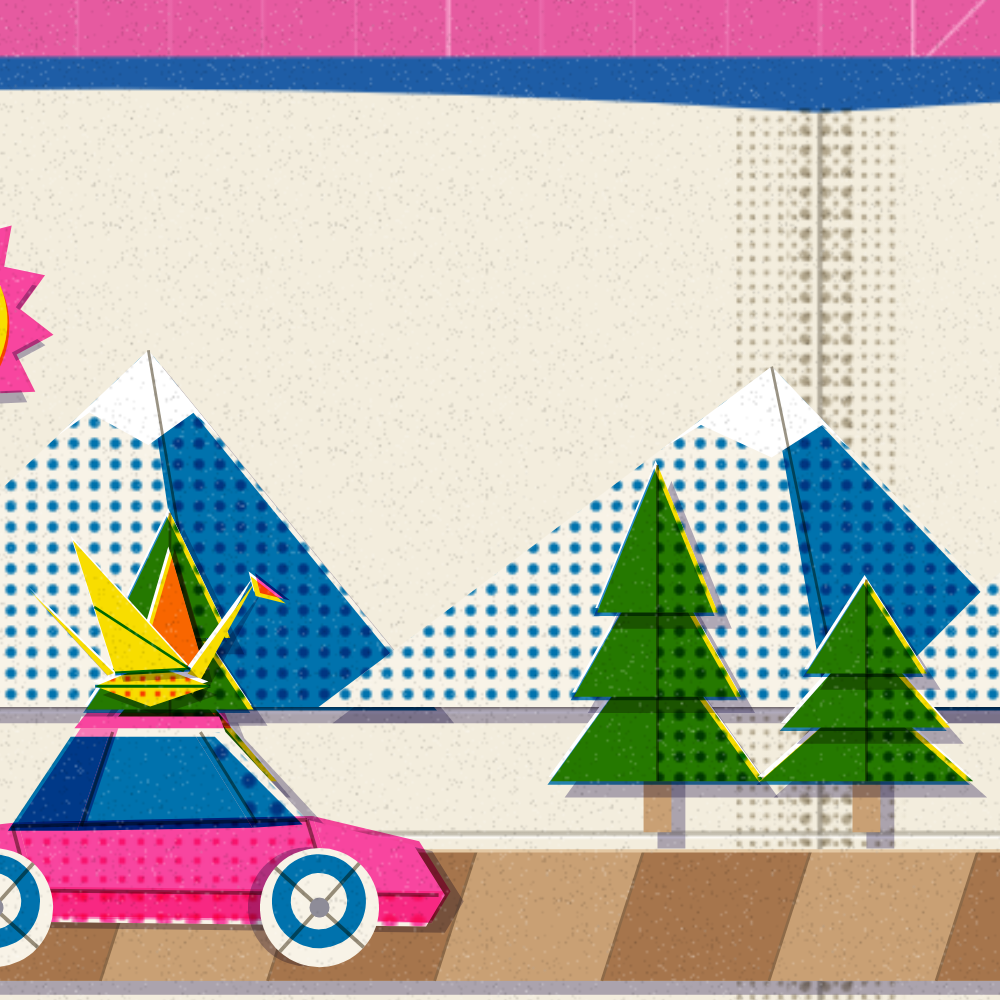
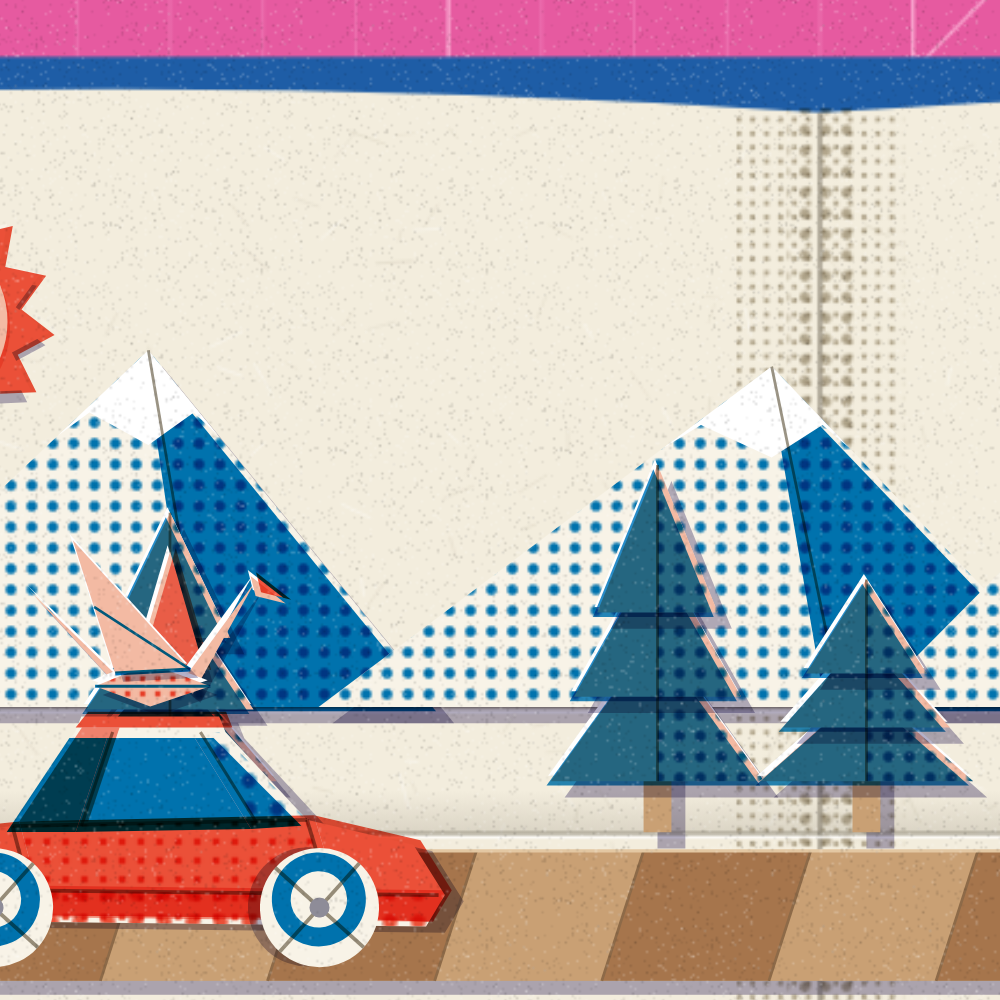
PAPER: the riso print and the 5-step ladder (plan Task 15)
Paper fibres, fold shadows and a wider misregistration at every step. The steps go from a
two-ink print to three inks, one more pop-up plane, a pull tab that slides clouds only while
parked, and a special edition in fluorescent pink with gold foil.

Changed region(s): [[0.0, 0.496, 0.465, 0.93], [0.558, 0.465, 0.961, 0.806], [0.0, 0.217, 0.062, 0.403]]

diff --git a/character/src/main/java/io/vroomi/character/render/paper/PaperPainter.kt b/character/src/main/java/io/vroomi/character/render/paper/PaperPainter.kt
@@ -187,6 +187,7 @@ internal class PaperPainter : ThemePainter<PaperSim>() {
 
     override fun drawPx(s: DrawScope, sim: PaperSim, f: ThemeFrame, tx: ThemeTexts, left: Float, top: Float) {
         val g = geo(f.dw, f.dh)
+        PaperInk.use(f.model)
         val w = f.w.roundToInt(); val h = f.h.roundToInt(); val k = f.k
         val key = (w.toLong() shl 20) xor h.toLong()
         val n = sim.night
@@ -203,12 +204,18 @@ internal class PaperPainter : ThemePainter<PaperSim>() {
 
     override fun draw(s: DrawScope, sim: PaperSim, f: ThemeFrame, tx: ThemeTexts) = with(s) {
         val g = geo(f.dw, f.dh)
+        val model = f.model
+        PaperInk.use(model)
         val n = sim.night
         light(n)
         val intro = f.options.intro
         withTransform({ translate(0f, g.oy) }) {
             clipRect(g.l, g.t - 40f, g.r, g.b) {
                 sky(g, sim)
+                // Foil is stamped on the page itself, so the planes stand in front of it.
+                if (PaperStep.special(model)) foil(g)
+                if (PaperStep.pullTab(model)) cloudTab(g, sim)
+                if (PaperStep.farPlane(model)) standUp(intro, 0, g.foldBack - 26f) { farHills(g, sim) }
                 standUp(intro, 0, g.foldBack) { mountains(g, sim) }
                 standUp(intro, 1, g.foldMid) { scenery(g, sim) }
                 ribbon(g, sim)
@@ -218,7 +225,7 @@ internal class PaperPainter : ThemePainter<PaperSim>() {
                 garland(g, sim)
             }
             pullTab(g, sim)
-            title(g.cx + 70f, 100f, sdx, PaperInk.BLUE, PaperInk.REG_BLUE, TITLE_SCALE, TITLE, legibility(sim, f, CutType.H * TITLE_SCALE))
+            title(g.cx + 70f, 100f, sdx, if (PaperStep.special(model)) PaperInk.GOLD else PaperInk.BLUE, PaperInk.REG_BLUE, TITLE_SCALE, TITLE, legibility(sim, f, CutType.H * TITLE_SCALE))
             confetti(g, sim)
             bookmark(g, sim)
             pageFlip(g, sim)
@@ -249,7 +256,7 @@ internal class PaperPainter : ThemePainter<PaperSim>() {
         sdx = 6f - 12f * n; sdy = 7f
         shadow = lerp(PaperInk.SHADOW_DAY, PaperInk.SHADOW_NIGHT, n)
         pink = PaperInk.pink(n)
-        pinkTone = if (n > 0.5f) TONE_VIOLET else TONE_PINK
+        pinkTone = if (n > 0.5f) TONE_VIOLET else if (PaperInk.PINK == PaperInk.FLUO) TONE_PINK else TONE_RED
     }
 
     // ------------------------------------------------------------------ printing helpers
@@ -315,6 +322,13 @@ internal class PaperPainter : ThemePainter<PaperSim>() {
                 drawLine(PaperInk.PAGE_EDGE, Offset(g.l + 2f + k, g.b + 2f + k * 1.6f), Offset(g.r - 2f - k, g.b + 2f + k * 1.6f), 1.4f)
             }
             drawPath(g.pageL, PaperInk.PAGE); drawPath(g.pageR, PaperInk.PAGE)
+            // Paper fibres in the sheet: short hairs, barely lighter or darker than the page.
+            for (i in 0 until 460) {
+                val fx = g.l + 6f + h01(i, 71) * (g.r - g.l - 12f); val fy = g.t + 16f + h01(i, 72) * (g.b - g.t - 22f)
+                val a = h01(i, 73) * 3.14f; val len = 5f + h01(i, 74) * 12f
+                drawLine(if (i % 3 == 0) Color.White.copy(alpha = 0.55f) else Color(0xFF8A7F68).copy(alpha = 0.10f + 0.09f * h01(i, 75)),
+                    Offset(fx, fy), Offset(fx + kotlin.math.cos(a) * len, fy + kotlin.math.sin(a) * len), 0.7f)
+            }
             // The gutter: a halftone shade band and the centre crease.
             tmp.reset(); tmp.addRect(Rect(g.cx - 36f, g.t + 10f, g.cx + 36f, g.b))
             drawPath(tmp, fineTone, colorFilter = TONE_CREASE, blendMode = BlendMode.Multiply)
@@ -323,6 +337,8 @@ internal class PaperPainter : ThemePainter<PaperSim>() {
             drawLine(PaperInk.CREASE, Offset(g.cx, g.t + 12f), Offset(g.cx, g.b), 1.6f)
             // The parallel folds and slots the planes stand on.
             for (fy in floatArrayOf(g.foldBack, g.foldMid, g.foldFront)) {
+                // The fold's own shadow: the page dips toward the crease.
+                drawRect(Brush.verticalGradient(listOf(Color.Transparent, Color(0xFF7A7364).copy(alpha = 0.20f)), startY = fy - 18f, endY = fy), Offset(g.l + 8f, fy - 18f), Size(g.r - g.l - 16f, 18f))
                 drawLine(Color(0xFF8C8577), Offset(g.l + 8f, fy + 0.5f), Offset(g.r - 8f, fy + 0.5f), 1.2f)
                 drawLine(Color.White, Offset(g.l + 8f, fy + 2f), Offset(g.r - 8f, fy + 2f), 1f)
             }
@@ -421,6 +437,59 @@ internal class PaperPainter : ThemePainter<PaperSim>() {
                     }
                 }
             }
+        }
+    }
+
+    // ------------------------------------------------------------------ the upgrade steps' additions (PaperStep)
+
+    /** Step 3: one more plane behind the mountains (far hills in a fine blue halftone), standing on its own fold. */
+    private fun DrawScope.farHills(g: PGeo, sim: PaperSim) {
+        val period = 310f
+        val s = (sim.strip * 0.10).toFloat()
+        val first = floor(s / period).toInt()
+        val off = s - first * period
+        val base = g.foldBack - 26f
+        val count = ((g.r - g.l) / period).toInt() + 3
+        for (k in -1 until count) {
+            val idx = first + k
+            val x = g.l + k * period - off
+            val h = 104f + h01(idx, 61) * 44f
+            tmp.reset(); tmp.moveTo(x - 30f, base)
+            tmp.quadraticTo(x + period * 0.28f, base - h * 1.5f, x + period * 0.62f, base - h * 0.5f)
+            tmp.quadraticTo(x + period * 0.85f, base - h * 0.9f, x + period + 30f, base); tmp.close()
+            piece(tmp, Color.White, Offset.Zero, lift = 0.7f)
+            halftone(tmp, TONE_BLUE, fine = true)
+        }
+        crease(Offset(g.l + 8f, base), Offset(g.r - 8f, base))
+    }
+
+    /** Step 4: two clouds ride a paper strip in a slot across the right page's sky; the tab is pulled only while parked. */
+    private fun DrawScope.cloudTab(g: PGeo, sim: PaperSim) {
+        val y = 196f; val l = g.cx + 60f; val r = g.r - 60f
+        drawRoundRectSlot(l, y, r - l)
+        val x = l + 20f + (r - l - 350f) * sim.cloudSlide
+        withTransform({ translate(x + 296f, y - 13f) }) { piece(g.tab, Color.White, Offset.Zero, PaperInk.KRAFT, lift = 0.5f) }
+        for (c in 0 until 2) {
+            val cx = x + c * 160f; val sc = if (c == 0) 1f else 0.8f
+            tmp.reset()
+            tmp.addOval(Rect(cx, y - 30f * sc, cx + 60f * sc, y + 2f)); tmp.addOval(Rect(cx + 32f * sc, y - 54f * sc, cx + 98f * sc, y + 2f)); tmp.addOval(Rect(cx + 76f * sc, y - 34f * sc, cx + 134f * sc, y + 2f))
+            piece(tmp, Color.White, Offset.Zero, lift = 0.6f)
+            tmp2.reset(); tmp2.addOval(Rect(cx + 8f * sc, y - 12f * sc, cx + 126f * sc, y + 2f))
+            halftone(tmp2, TONE_BLUE, fine = true)
+        }
+    }
+
+    /** Step 5: gold foil stamped on the special edition: a rule inside each page's edge and punched discs in the sky. */
+    private fun DrawScope.foil(g: PGeo) {
+        val rule = androidx.compose.ui.graphics.drawscope.Stroke(2.6f)
+        for ((x0, x1) in listOf(g.l + 14f to g.cx - 22f, g.cx + 22f to g.r - 14f)) {
+            drawRect(PaperInk.GOLD, Offset(x0, g.t + 24f), Size(x1 - x0, g.b - g.t - 42f), style = rule)
+            drawLine(PaperInk.GOLD_LIGHT, Offset(x0 + 6f, g.t + 23.4f), Offset(x1 - (x1 - x0) * 0.4f, g.t + 23.4f), 1f)
+        }
+        for (i in 0 until 10) {
+            val x = g.l + 70f + h01(i, 91) * (g.r - g.l - 140f); val y = g.t + 40f + h01(i, 92) * 120f; val r = 4f + h01(i, 93) * 5f
+            drawCircle(PaperInk.GOLD, r, Offset(x, y))
+            drawArc(PaperInk.GOLD_LIGHT, 200f, 110f, false, Offset(x - r * 0.65f, y - r * 0.65f), Size(r * 1.3f, r * 1.3f), style = hairline)
         }
     }
 
@@ -943,7 +1012,8 @@ internal class PaperPainter : ThemePainter<PaperSim>() {
         val CONFETTI = arrayOf(PaperInk.PINK, PaperInk.YELLOW, PaperInk.BLUE)
         val CONFETTI_REG = arrayOf(PaperInk.REG_PINK, PaperInk.REG_YELLOW, PaperInk.REG_BLUE)
         val REG_INKS = arrayOf(PaperInk.PINK to PaperInk.REG_PINK, PaperInk.BLUE to PaperInk.REG_BLUE, PaperInk.YELLOW to PaperInk.REG_YELLOW)
-        val TONE_PINK = ColorFilter.tint(PaperInk.PINK, BlendMode.SrcIn)
+        val TONE_PINK = ColorFilter.tint(PaperInk.FLUO, BlendMode.SrcIn)
+        val TONE_RED = ColorFilter.tint(PaperInk.RED, BlendMode.SrcIn)
         val TONE_VIOLET = ColorFilter.tint(PaperInk.VIOLET, BlendMode.SrcIn)
         val TONE_BLUE = ColorFilter.tint(PaperInk.BLUE, BlendMode.SrcIn)
         val TONE_CREASE = ColorFilter.tint(Color(0xFFB9B1A0), BlendMode.SrcIn)

diff --git a/character/src/test/java/io/vroomi/character/render/paper/PaperSnapshotTest.kt b/character/src/test/java/io/vroomi/character/render/paper/PaperSnapshotTest.kt
@@ -20,6 +20,14 @@ import io.vroomi.core.vehicle.model.DriveModeState
 import io.vroomi.core.vehicle.model.GearState
 import io.vroomi.core.vehicle.model.TurnSignal
 import org.junit.Rule
+import io.vroomi.character.render.theme.simulate
+import androidx.compose.foundation.background
+import androidx.compose.foundation.layout.aspectRatio
+import androidx.compose.foundation.layout.fillMaxSize
+import androidx.compose.foundation.layout.fillMaxWidth
+import androidx.compose.foundation.layout.padding
+import androidx.compose.ui.unit.dp
+import androidx.compose.ui.unit.sp
 import org.junit.Test
 
 /** Renders the risograph pop-up book (docs/screenshots/paper_*). */
@@ -31,6 +39,21 @@ class PaperSnapshotTest {
         Journey(active = true, tripSeq = 2, tripKm = kmh * t / 3600f, stars = stars, starSeq = stars, comboSeq = combo, biome = biome, milestoneKm = (kmh * t / 3600f).toInt())
     private fun shot(name: String, s: Float, opt: SceneOptions = o(), prepare: (PaperSim) -> Unit = {}, at: (Float) -> CharacterTarget) =
         KitShots.script(paparazzi, SceneTheme.PAPER, name, s, opt, prepare, at = at)
+
+    // ---- the upgrade ladder (spec 5.9)
+    private fun lv(name: String, model: Int, opt: SceneOptions = o(), block: io.vroomi.character.CarSignals.() -> io.vroomi.character.CarSignals = { this }) =
+        shot(name, 8f, opt.copy(model = model)) { t -> driving(car(50f) { block() }, trip(t, 50f)) }
+    @Test fun lv1Day() = lv("paper_lv1_day", 0)
+    @Test fun lv2Day() = lv("paper_lv2_day", 1)
+    @Test fun lv3Day() = lv("paper_lv3_day", 2)
+    @Test fun lv4Day() = lv("paper_lv4_day", 3)
+    @Test fun lv5Day() = lv("paper_lv5_day", 4)
+    @Test fun lv5Night() = lv("paper_lv5_night", 4, o().copy(hourOfDay = 21.5f)) { copy(headlightsOn = true) }
+    @Test fun lv3BlinkerLeft() = lv("paper_lv3_blinker_left", 2) { copy(turnSignal = io.vroomi.core.vehicle.model.TurnSignal.LEFT) }
+    @Test fun lv3Brake() = shot("paper_lv3_brake", 8.4f, o().copy(model = 2)) { t ->
+        driving(car(if (t < 8f) 60f else 30f, if (t < 8f) 0f else -6f) { copy(brakePressed = t >= 8f, harshBrakeSeq = if (t >= 8f) 1 else 0) }, trip(t, 60f))
+    }
+    @Test fun lv4ParkedCloudTab() = shot("paper_lv4_parked_cloud_tab", 9f, o().copy(model = 3)) { parked() }
 
     @Test fun cityCruise() = shot("paper_city_cruise", 8f) { t -> driving(car(50f) { copy(turnSignal = if (t > 7.6f) TurnSignal.RIGHT else TurnSignal.NONE) }, trip(t, 50f)) }
     @Test fun parkRain() = shot("paper_park_rain_threads", 8f) { t -> driving(car(45f) { copy(wiperActive = true) }, trip(t, 45f, Biome.PARK)) }
@@ -75,5 +98,72 @@ class PaperDetailSnapshotTest {
 
     @Test fun crane() = KitShots.script<PaperSim>(paparazzi, SceneTheme.PAPER, "paper_detail_crane", 4f, SceneOptions(hourOfDay = 14f), zoom = 2.6f, fx = 0.3f, fy = 0.42f) {
         driving(car(40f) { copy(turnSignal = TurnSignal.LEFT) }, Journey(active = true, tripSeq = 3, biome = Biome.PARK))
+    }
+}
+
+/** The upgrade ladder in one picture: Lv.1 to Lv.5 as five stacked 8:3 strips (1000 x 1875), labelled "Lv.n" top left. */
+class PaperLadderSnapshotTest {
+    @get:Rule val paparazzi = app.cash.paparazzi.Paparazzi(
+        deviceConfig = app.cash.paparazzi.DeviceConfig.PIXEL_5.copy(
+            screenWidth = 1000, screenHeight = 1875, xdpi = 120, ydpi = 120,
+            density = com.android.resources.Density.LOW, orientation = com.android.resources.ScreenOrientation.PORTRAIT, softButtons = false,
+        ),
+        maxPercentDifference = 100.0,
+    )
+
+    @Test fun ladder() {
+        val runtimes = (0 until 5).map { i ->
+            requireNotNull(io.vroomi.character.render.theme.ThemeCatalog.create(SceneTheme.PAPER)).also { rt ->
+                rt.simulate(8f, SceneOptions(hourOfDay = 14f, model = i), io.vroomi.character.render.calibre.DEFAULT_NOW_MS) { t ->
+                    driving(car(50f), io.vroomi.character.Journey(active = true, tripSeq = 2, tripKm = 50f * t / 3600f, stars = 2, starSeq = 2))
+                }
+            }
+        }
+        paparazzi.snapshot("paper_ladder") {
+            val tm = androidx.compose.ui.text.rememberTextMeasurer()
+            androidx.compose.foundation.layout.Column(androidx.compose.ui.Modifier.fillMaxSize()) {
+                runtimes.forEachIndexed { i, rt ->
+                    androidx.compose.foundation.layout.Box(androidx.compose.ui.Modifier.fillMaxWidth().aspectRatio(8f / 3f)) {
+                        androidx.compose.foundation.Canvas(androidx.compose.ui.Modifier.fillMaxSize()) { rt.draw(this, tm) }
+                        androidx.compose.foundation.text.BasicText(
+                            io.vroomi.character.theme.ThemeModels.tag(i),
+                            androidx.compose.ui.Modifier.padding(start = 12.dp, top = 10.dp).background(androidx.compose.ui.graphics.Color(0xD9101316), androidx.compose.foundation.shape.RoundedCornerShape(4.dp)).padding(horizontal = 7.dp, vertical = 2.dp),
+                            style = androidx.compose.ui.text.TextStyle(color = androidx.compose.ui.graphics.Color.White, fontSize = 15.sp),
+                        )
+                    }
+                }
+            }
+        }
+    }
+}
+
+/** The ladder's rules. */
+class PaperStepTest {
+    @Test fun stepsAreCumulative() {
+        val has = (0 until 5).map { m -> listOf(PaperStep.threeInks(m), PaperStep.farPlane(m), PaperStep.pullTab(m), PaperStep.special(m)).count { it } }
+        org.junit.Assert.assertEquals(listOf(0, 1, 2, 3, 4), has)
+    }
+
+    @Test fun pullTabOnlyFromStepFour() {
+        org.junit.Assert.assertEquals(listOf(false, false, false, true, true), (0 until 5).map { PaperStep.pullTab(it) })
+    }
+
+    /** The cloud strip is pulled only while parked (the page-flip rule): driving leaves it where it was. */
+    @Test fun cloudTabMovesOnlyWhileParked() {
+        fun slideAfter(parkedCar: Boolean): Float {
+            val rt = requireNotNull(io.vroomi.character.render.theme.ThemeCatalog.create(SceneTheme.PAPER))
+            rt.simulate(12f, SceneOptions(hourOfDay = 14f, model = 3), io.vroomi.character.render.calibre.DEFAULT_NOW_MS) { t ->
+                if (parkedCar) parked() else driving(car(50f), io.vroomi.character.Journey(active = true, tripSeq = 2, tripKm = 50f * t / 3600f))
+            }
+            return (rt.sim as PaperSim).cloudSlide
+        }
+        org.junit.Assert.assertEquals(PaperSim().cloudSlide, slideAfter(parkedCar = false), 1e-6f)
+        org.junit.Assert.assertTrue(kotlin.math.abs(slideAfter(parkedCar = true) - PaperSim().cloudSlide) > 0.05f)
+    }
+
+    @Test fun inksFollowTheStep() {
+        PaperInk.use(0); org.junit.Assert.assertEquals(PaperInk.RED, PaperInk.PINK); org.junit.Assert.assertEquals(PaperInk.RED_TINT, PaperInk.YELLOW)
+        PaperInk.use(2); org.junit.Assert.assertEquals(PaperInk.RED, PaperInk.PINK); org.junit.Assert.assertEquals(PaperInk.YELLOW_INK, PaperInk.YELLOW)
+        PaperInk.use(4); org.junit.Assert.assertEquals(PaperInk.FLUO, PaperInk.PINK)
     }
 }

diff --git a/character/src/main/java/io/vroomi/character/render/paper/PaperInk.kt b/character/src/main/java/io/vroomi/character/render/paper/PaperInk.kt
@@ -12,11 +12,26 @@ import androidx.compose.ui.graphics.PathFillType
  * pink + yellow = red-orange), and each ink plate sits slightly off register.
  */
 internal object PaperInk {
-    val PINK = Color(0xFFFF48B0)
+    /** The second ink of the current upgrade step ([use]): warm red, or the special edition's fluorescent pink. */
+    var PINK = Color(0xFFFF48B0)
+    val FLUO = Color(0xFFFF48B0)
+    val RED = Color(0xFFF2543D)
     /** Pink ink under the desk lamp at night. */
     val VIOLET = Color(0xFF6A2C9A)
     val BLUE = Color(0xFF0078BF)
-    val YELLOW = Color(0xFFFFE800)
+    /** The third ink ([use]): yellow from step 2; at step 1 (two inks) a pale tint of the red stands in its place. */
+    var YELLOW = Color(0xFFFFE800)
+    val YELLOW_INK = Color(0xFFFFE800)
+    val RED_TINT = Color(0xFFFAC3B4)
+    /** Gold foil (step 5). */
+    val GOLD = Color(0xFFCFA43A)
+    val GOLD_LIGHT = Color(0xFFF7E6A6)
+
+    /** Sets the inks of an upgrade step: 1 blue + red, 2..4 blue + red + yellow, 5 blue + fluorescent pink + yellow. */
+    fun use(model: Int) {
+        PINK = if (model >= 4) FLUO else RED
+        YELLOW = if (model >= 1) YELLOW_INK else RED_TINT
+    }
 
     val CARD = Color(0xFFF8F3E7)
     val CORE = Color(0xFFFFFFFF)
@@ -50,9 +65,9 @@ internal object PaperInk {
     val MAT_DARK = Color(0xFF3A1C5C)
 
     /** Each ink plate's fixed misregistration (design units). */
-    val REG_PINK = Offset(1.8f, -1.2f)
-    val REG_BLUE = Offset(-1.4f, 1.5f)
-    val REG_YELLOW = Offset(0.8f, 1.9f)
+    val REG_PINK = Offset(2.2f, -1.5f)
+    val REG_BLUE = Offset(-1.8f, 1.9f)
+    val REG_YELLOW = Offset(1.1f, 2.4f)
 
     fun pink(night: Float): Color = androidx.compose.ui.graphics.lerp(PINK, VIOLET, night.coerceIn(0f, 1f))
 }

diff --git a/character/src/main/java/io/vroomi/character/paper/PaperSim.kt b/character/src/main/java/io/vroomi/character/paper/PaperSim.kt
@@ -22,6 +22,9 @@ class PaperSim : ThemeSim() {
     var sunAngle = 0.0; private set
     /** The pull-tab that turns the sun wheel (0..1 along its slot). */
     var tab = 0f; private set
+    /** Step 4's cloud strip, 0..1 along its slot: it is pulled only while parked (the page-flip rule). */
+    var cloudSlide = 0.35f; private set
+    private var cloudPhase = 1.27
     var wheelAngle = 0.0; private set
     var dustAt = -100.0; private set
     private var lastBrake = false
@@ -69,6 +72,7 @@ class PaperSim : ThemeSim() {
         val dir = if (gear == GearState.REVERSE) -1.0 else 1.0
         strip += v / 3.6 * 9.0 * ddt * dir * calmK
         tab = approach(tab, (kmh / 120f).coerceIn(0f, 1f), (dt / 0.6).toFloat())
+        if (parked && !reducedMotion) { cloudPhase += ddt * 0.22 * calmK; cloudSlide = (0.5 - 0.5 * kotlin.math.cos(cloudPhase)).toFloat() }
         sunAngle += ddt * (0.05 + 0.6 * tab) * calmK
         wheelAngle += v / 3.6 * ddt * 0.9 * dir
         val brake = car.brakePressed == true && kmh > 3f

diff --git a/app/src/main/java/io/vroomi/app/ui/design/Ambience.kt b/app/src/main/java/io/vroomi/app/ui/design/Ambience.kt
@@ -56,7 +56,7 @@ object Ambience {
 
     val all: List<ThemeAmbience> = listOf(
         a(SceneTheme.KART, 0xFF3CC8B4, 0xFF15262A, 0.52f),        // brand teal over a dusk-teal letterbox
-        a(SceneTheme.PAPER, 0xFFE8478C, 0xFF231C3B, 0.439f),      // fluorescent pink ink, the night mat's violet
+        a(SceneTheme.PAPER, 0xFFE8478C, 0xFF231C3B, 0.433f),      // fluorescent pink ink, the night mat's violet
         a(SceneTheme.CALIBRE, 0xFFB7C0CA, 0xFF0A0B0D, 0.059f),    // brushed steel, black velvet
         a(SceneTheme.ENGINE, 0xFFE0A02A, 0xFF131A21, 0.687f),     // oil amber, the night drafting slate
         a(SceneTheme.MUSIC_BOX, 0xFF6CC3A0, 0xFF2A2522, 0.787f),   // mint enamel, the lamp-lit warm grey

diff --git a/character/src/main/java/io/vroomi/character/render/paper/PaperSteps.kt b/character/src/main/java/io/vroomi/character/render/paper/PaperSteps.kt
@@ -1,0 +1,14 @@
+package io.vroomi.character.render.paper
+
+/**
+ * The pop-up book's upgrade ladder (spec 5.9). Every step keeps what the one before had:
+ * 1 a two-ink print (blue and warm red), 2 a third ink (yellow, so greens and oranges appear where plates overlap),
+ * 3 one more pop-up plane behind the mountains, 4 a pull tab that slides two clouds across the sky (only while
+ * parked), 5 the special edition: fluorescent pink in place of the red, and gold foil.
+ */
+internal object PaperStep {
+    fun threeInks(model: Int): Boolean = model >= 1
+    fun farPlane(model: Int): Boolean = model >= 2
+    fun pullTab(model: Int): Boolean = model >= 3
+    fun special(model: Int): Boolean = model >= 4
+}
